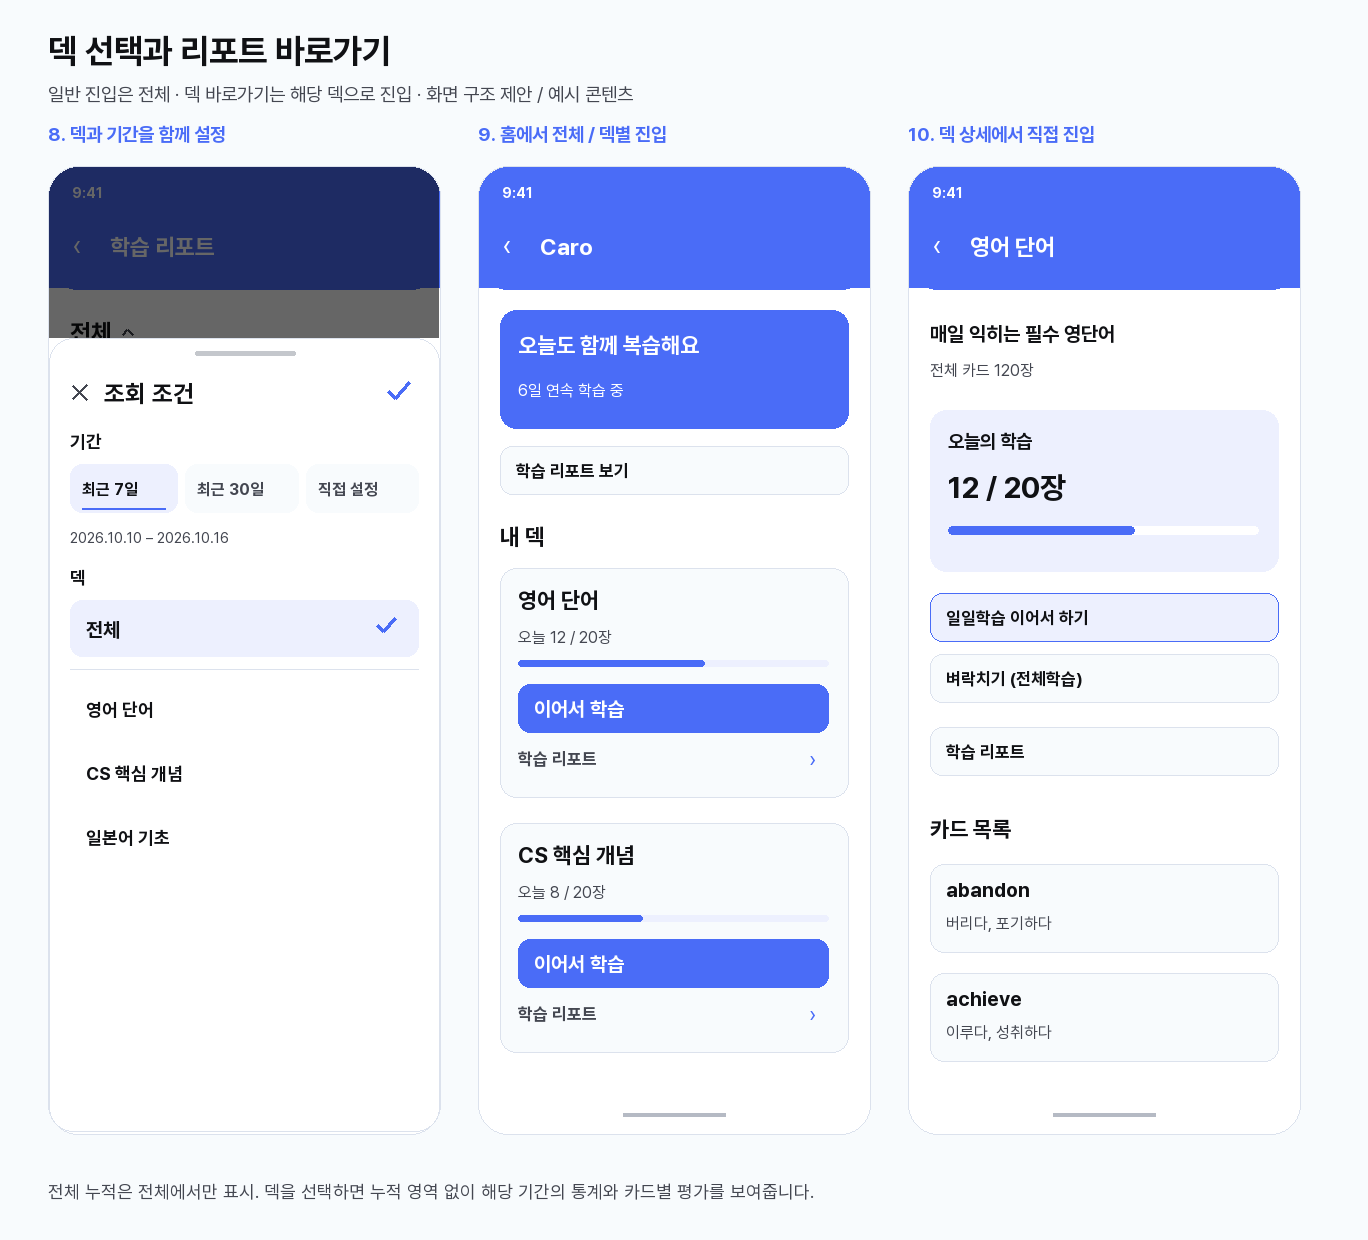
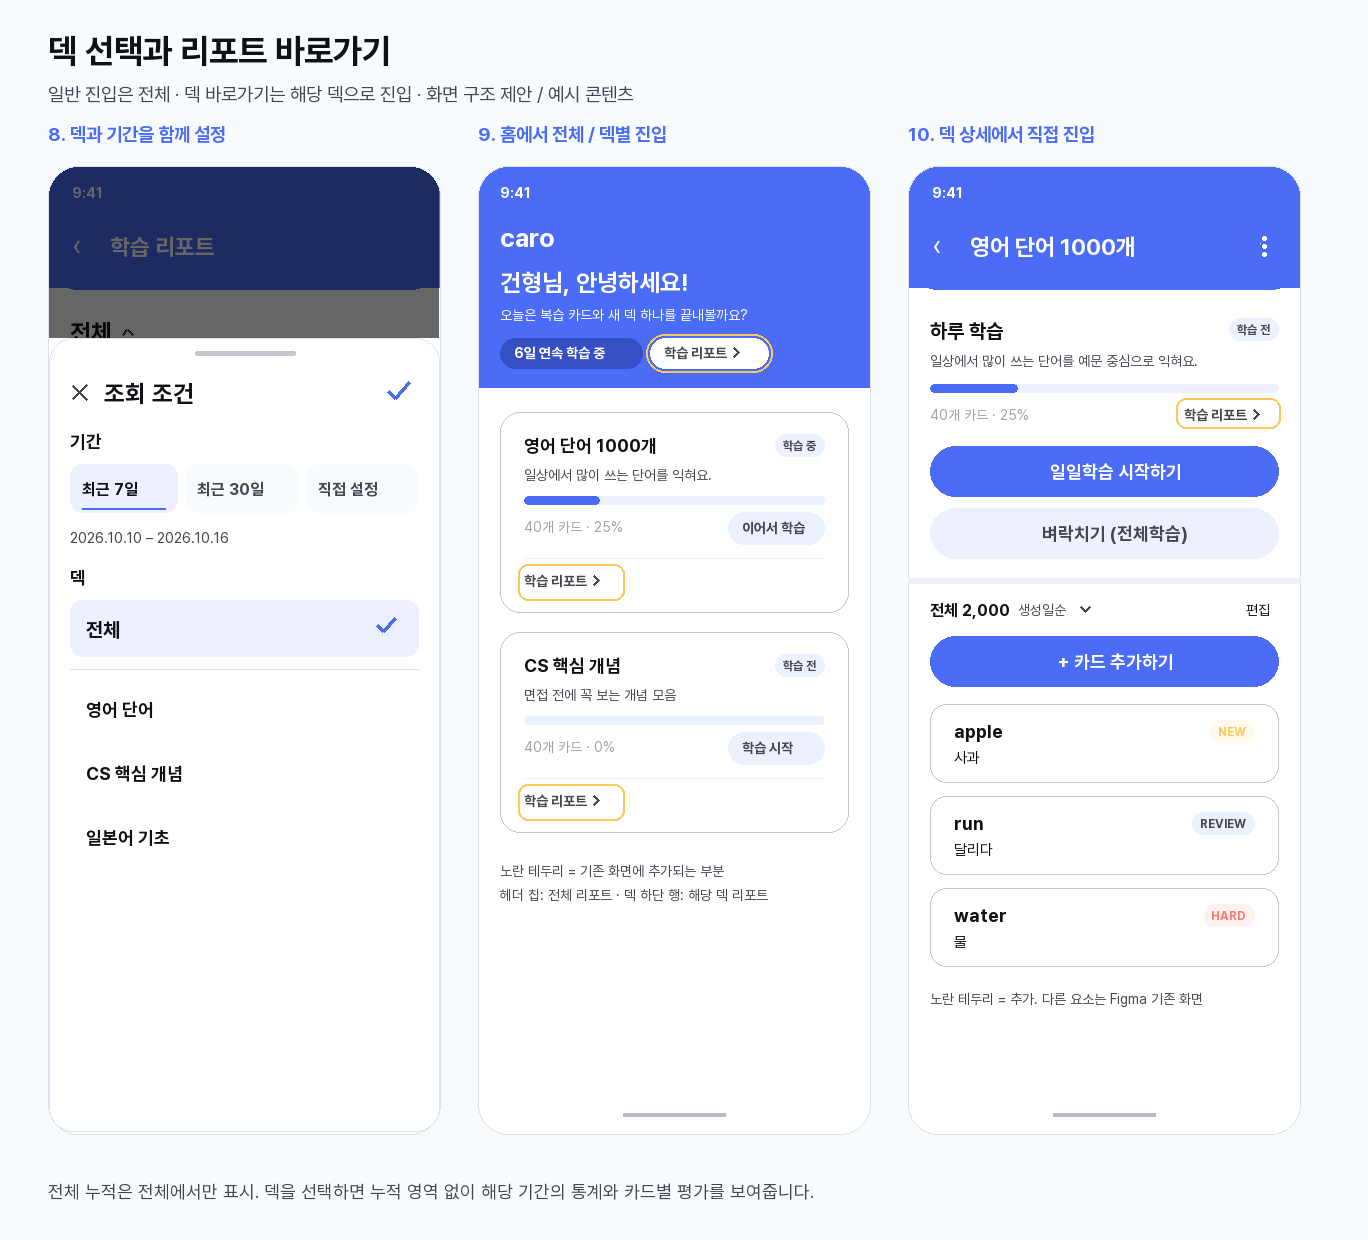
docs: 학습 리포트 진입점과 평가 색을 Figma 기준으로 정정

diff --git a/feature/learning/docs/assets/render_learning_report.py b/feature/learning/docs/assets/render_learning_report.py
@@ -62,7 +62,7 @@ def chart(x,y,values):
     text(x+270,plot+148,'10월 · 학습일',12,muted)
 def ratings(x,y,counts):
     text(x,y,'어떻게 평가했나요?',18,ink,True)
-    for i,(label,n,col) in enumerate(zip(['쉬워요','애매해요','모르겠어요'],counts,[blue,'#FFC857','#FF7A70'])):
+    for i,(label,n,col) in enumerate(zip(['쉬워요','애매해요','모르겠어요'],counts,[blue,'#000000','#FF7A70'])):
         yy=y+39+i*30
         d.ellipse((x,yy+3,x+10,yy+13),fill=col)
         text(x+20,yy,label,16,muted)
@@ -199,7 +199,7 @@ text(q+16,421,'abandon',24,ink,True)
 text(q+16,467,'버리다, 포기하다',18,muted)
 text(q,550,'최근 7일 · 평가 3회',18,ink,True)
 text(q+236,552,'전체 기간',15,blue,True)
-for yy,date,rating,col in [(607,'10.16  09:10','애매해요','#FFC857'),(729,'10.14  08:42','모르겠어요','#FF7A70'),(851,'10.12  19:05','쉬워요',blue)]:
+for yy,date,rating,col in [(607,'10.16  09:10','애매해요','#000000'),(729,'10.14  08:42','모르겠어요','#FF7A70'),(851,'10.12  19:05','쉬워요',blue)]:
     d.ellipse((q+1,yy+6,q+13,yy+18),fill=col)
     text(q+27,yy,date,17,muted)
     text(q+27,yy+37,rating,23,ink,True)
@@ -248,38 +248,62 @@ scope(a,'전체',expanded=True)
 text(a,368,'2026.10.10 – 2026.10.16',15,muted)
 condition_sheet(a)
 
-b=phone(478,'Caro','9. 홈에서 전체 / 덱별 진입')
-rect(b,310,348,118,blue,16)
-text(b+18,332,'오늘도 함께 복습해요',22,'white',True)
-text(b+18,380,'6일 연속 학습 중',16,'white')
-button(b,446,'학습 리포트 보기')
-text(b,523,'내 덱',23,ink,True)
-for yy,name,n in [(568,'영어 단어','오늘 12 / 20장'),(823,'CS 핵심 개념','오늘 8 / 20장')]:
-    rect(b,yy,348,229,bg,16,border)
-    text(b+18,yy+19,name,22,ink,True)
-    text(b+18,yy+59,n,16,muted)
-    rect(b+18,yy+92,310,6,pale,3)
-    rect(b+18,yy+92,186 if yy==568 else 124,6,blue,3)
-    rect(b+18,yy+116,310,48,blue,12)
-    text(b+34,yy+128,'이어서 학습',20,'white',True)
-    text(b+18,yy+180,'학습 리포트',17,blue,True)
-    text(b+309,yy+178,'›',22,blue)
+# Panels 9-10 follow Figma PVw3ZFpRQf2JL3gv2AVOg9 [QA] Home 56795:3054 and Deck Progress 56795:2774.
+# Only the '학습 리포트' controls are additions; the rest mirrors the existing screens.
+def link_small(x,y,label):
+    text(x,y,label,14,muted,True)
+    ax=x+d.textlength(label,font=font(14,True))+6
+    d.line([(ax,y+3),(ax+5,y+8),(ax,y+13)],fill=muted,width=2)
+def badge(x,y,label,fill,color):
+    w=d.textlength(label,font=font(12,True))+16
+    rect(x-w,y,w,22,fill,11); text(x-w+8,y+4,label,12,color,True)
 
-c=phone(908,'영어 단어','10. 덱 상세에서 직접 진입')
-text(c,321,'매일 익히는 필수 영단어',20,ink,True)
-text(c,360,'전체 카드 120장',16,muted)
-rect(c,410,348,161,pale,16)
-text(c+18,429,'오늘의 학습',19,ink,True)
-text(c+18,469,'12 / 20장',30,ink,True)
-rect(c+18,526,310,8,'white',4);rect(c+18,526,186,8,blue,4)
-button(c,593,'일일학습 이어서 하기',True)
-button(c,654,'벼락치기 (전체학습)')
-button(c,727,'학습 리포트')
-text(c,816,'카드 목록',22,ink,True)
-for yy,word,meaning in [(864,'abandon','버리다, 포기하다'),(973,'achieve','이루다, 성취하다')]:
-    rect(c,yy,348,88,bg,14,border)
-    text(c+16,yy+13,word,20,ink,True)
-    text(c+16,yy+49,meaning,16,muted)
+b=phone(478,'','9. 홈에서 전체 / 덱별 진입')
+rect(b-21,167,390,220,blue,29); d.rectangle((b-21,223,b+369,387),fill=blue)
+text(b,184,'9:41',14,'white',True)
+text(b,222,'caro',26,'white',True)
+text(b,268,'건형님, 안녕하세요!',24,'white',True,300)
+text(b,306,'오늘은 복습 카드와 새 덱 하나를 끝내볼까요?',14,'white',False,330)
+rect(b,338,142,30,'#3550C4',15); text(b+14,344,'6일 연속 학습 중',14,'white',True)
+rect(b+150,338,118,30,'white',15); link_small(b+164,344,'학습 리포트')
+d.rounded_rectangle((b+146,334,b+272,372),19,outline='#FFC857',width=2)
+for yy,name,desc,badge_label,pct,btn in [(412,'영어 단어 1000개','일상에서 많이 쓰는 단어를 익혀요.','학습 중',.25,'이어서 학습'),(632,'CS 핵심 개념','면접 전에 꼭 보는 개념 모음','학습 전',0,'학습 시작')]:
+    rect(b,yy,348,200,'white',20,'#C4C7CC')
+    text(b+24,yy+22,name,18,ink,True,220)
+    badge(b+324,yy+22,badge_label,pale,blue)
+    text(b+24,yy+54,desc,14,muted,False,300)
+    rect(b+24,yy+84,300,8,pale,4)
+    if pct: rect(b+24,yy+84,300*pct,8,blue,4)
+    text(b+24,yy+106,f'40개 카드 · {int(pct*100)}%',14,'#9DA3AF')
+    rect(b+228,yy+100,96,32,pale,16); text(b+242,yy+107,btn,14,blue,True)
+    d.line((b+24,yy+146,b+324,yy+146),fill=pale,width=1)
+    link_small(b+24,yy+160,'학습 리포트')
+    d.rounded_rectangle((b+18,yy+152,b+124,yy+188),10,outline='#FFC857',width=2)
+text(b,862,'노란 테두리 = 기존 화면에 추가되는 부분',14,muted)
+text(b,886,'헤더 칩: 전체 리포트 · 덱 하단 행: 해당 덱 리포트',14,muted)
+
+c=phone(908,'영어 단어 1000개','10. 덱 상세에서 직접 진입')
+d.line([(c+330,243),(c+330,243)],fill='white',width=4)
+for dy in (0,8,16): d.ellipse((c+332,236+dy,c+336,240+dy),fill='white')
+text(c,318,'하루 학습',20,ink,True)
+badge(c+348,318,'학습 전',pale,blue)
+text(c,352,'일상에서 많이 쓰는 단어를 예문 중심으로 익혀요.',14,muted,False,348)
+rect(c,384,348,8,pale,4); rect(c,384,87,8,blue,4)
+text(c,406,'40개 카드 · 25%',14,'#9DA3AF')
+link_small(c+254,406,'학습 리포트')
+d.rounded_rectangle((c+246,398,c+350,428),10,outline='#FFC857',width=2)
+rect(c,446,348,50,blue,25); text(c+120,460,'일일학습 시작하기',18,'white',True)
+rect(c,508,348,50,pale,25); text(c+112,522,'벼락치기 (전체학습)',18,blue,True)
+d.line((c-22,580,c+370,580),fill=pale,width=6)
+text(c,600,'전체 2,000',16,ink,True); text(c+88,601,'생성일순',14,muted)
+d.line([(c+150,606),(c+155,611),(c+160,606)],fill=muted,width=2)
+text(c+316,601,'편집',14,ink)
+rect(c,636,348,50,blue,25); text(c+128,650,'+ 카드 추가하기',18,'white',True)
+for yy,word,meaning,bl,bf,bc in [(704,'apple','사과','NEW','#FFF9EE','#FFC857'),(796,'run','달리다','REVIEW',pale,blue),(888,'water','물','HARD','#FFF2F1','#FF7A70')]:
+    rect(c,yy,348,78,'white',16,'#C4C7CC')
+    text(c+24,yy+16,word,18,ink,True); text(c+24,yy+44,meaning,15,ink)
+    badge(c+324,yy+16,bl,bf,bc)
+text(c,990,'노란 테두리 = 추가. 다른 요소는 Figma 기존 화면',14,muted)
 text(48,1180,'전체 누적은 전체에서만 표시. 덱을 선택하면 누적 영역 없이 해당 기간의 통계와 카드별 평가를 보여줍니다.',18,muted)
 im.save(out/'learning-report-selection.png')
 
